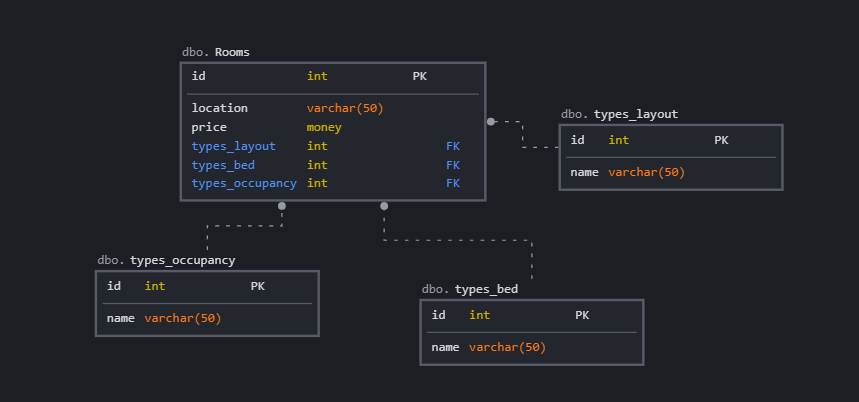
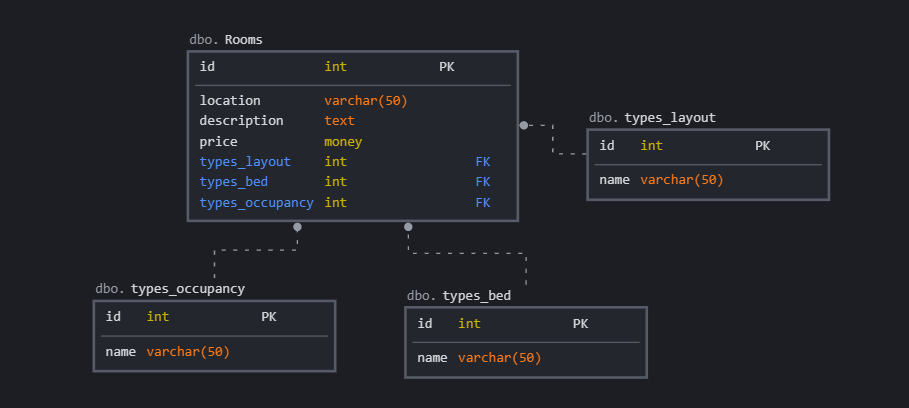
Add note in rooms schema

diff --git a/rooms.md b/rooms.md
@@ -1,5 +1,10 @@
 ## Rooms
 
+> Note: Add `itmes` column on room table 
+> 
+> Or super table (id_FK, items) 
+
+
 ### Option One
 
 - **schema** 
@@ -92,6 +97,7 @@ create table rooms
 (
     id int,
     location_ varchar(50),
+    description_ text,
     price money,
     rooms_layout int,
     rooms_bed int,
@@ -104,7 +110,7 @@ create table rooms
 ```
 
 
-## Option There
+## Option Three
 
 - **schema** 
   
